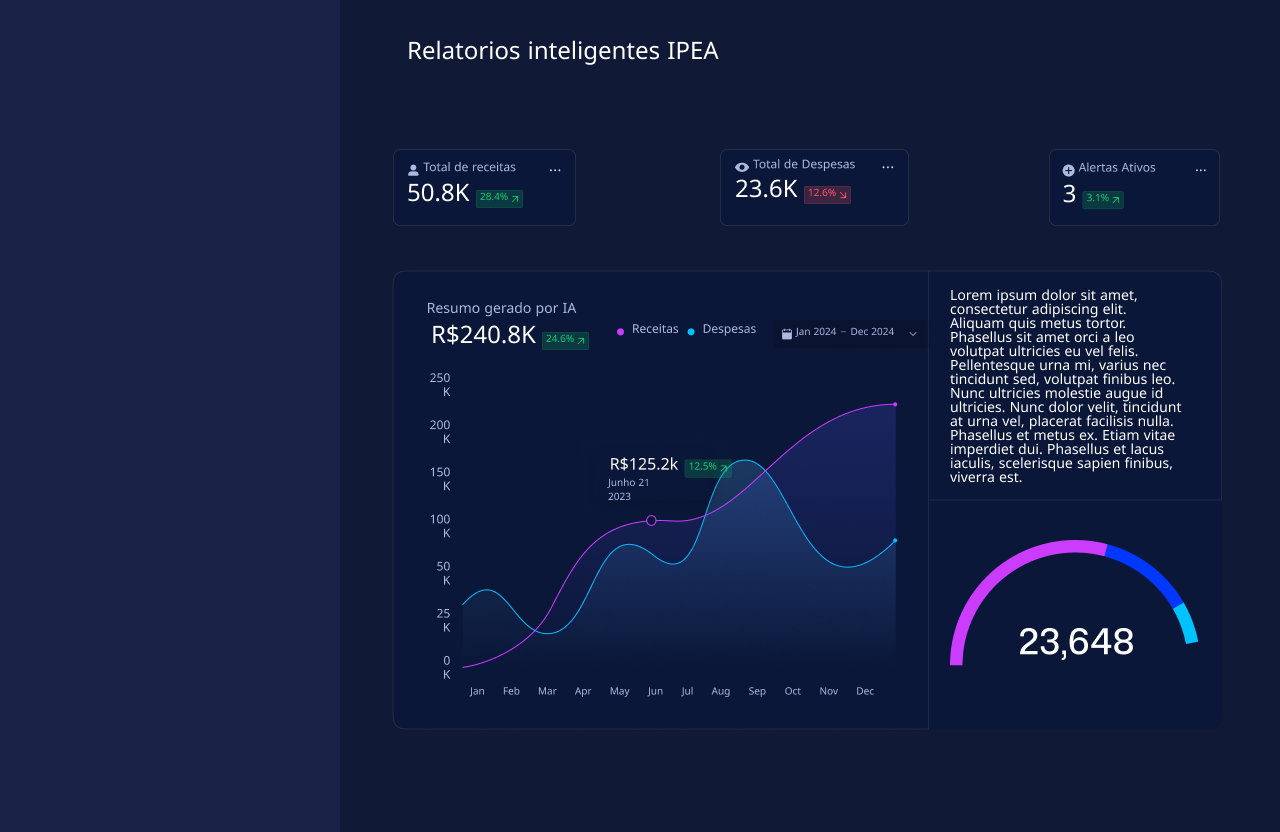
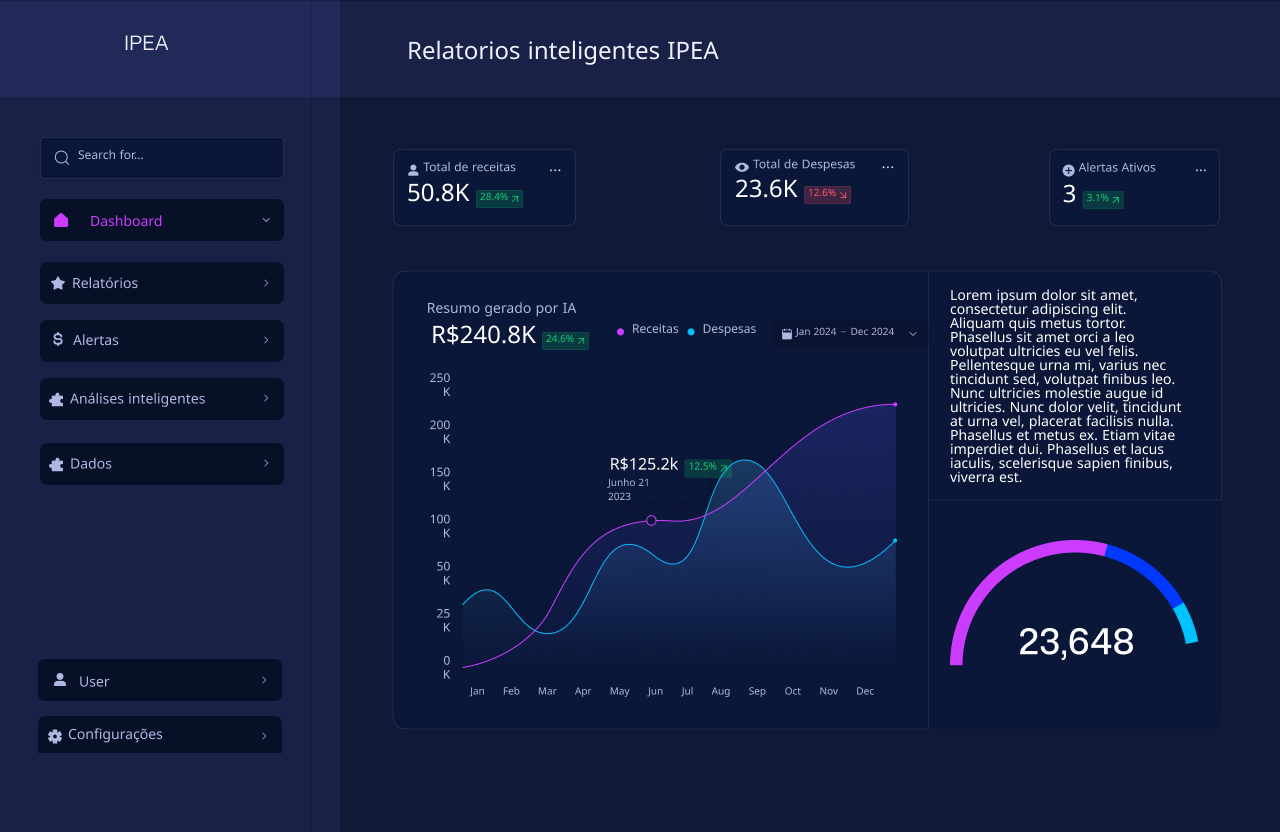
Docs: Criado esboço interface inicial

Changed region(s): [[0.0312, 0.2188, 0.2188, 0.5938], [0.0312, 0.7812, 0.2188, 0.9062], [0.0938, 0.0312, 0.125, 0.0625]]

diff --git a/Documentacao/prototipo/esboço-interface-inicial.md b/Documentacao/prototipo/esboço-interface-inicial.md
@@ -1,0 +1,43 @@
+# 🧠 Relatórios Inteligentes IPEA
+
+Este projeto é uma aplicação web voltada para visualização de relatórios financeiros com apoio de inteligência artificial. A interface foi inspirada em dashboards modernos e traz dados como receitas, despesas, alertas e projeções automatizadas.
+
+## 🎯 Objetivo
+
+Criar uma plataforma intuitiva e inteligente para o acompanhamento de dados financeiros, utilizando gráficos dinâmicos e análises geradas por IA.
+
+## 🖼 Interface Inicial (Esboço)
+
+Abaixo, uma prévia da interface inicial do projeto:
+
+![Interface Inicial](../assets/interface-inicial.png)
+
+> 💡 O layout foi pensado com foco na experiência do usuário e visualização clara dos dados mais relevantes.
+
+## 🔍 Funcionalidades previstas
+
+- Visualização de **receitas e despesas** em tempo real;
+- **Alertas** automáticos gerados por anomalias nos dados;
+- Gráficos comparativos mês a mês;
+- Indicadores de desempenho com feedback visual;
+- Painel lateral com navegação intuitiva por seções:
+  - Dashboard
+  - Relatórios
+  - Alertas
+  - Análises Inteligentes
+  - Dados
+  - Configurações
+
+
+## 🚧 Status do Projeto
+
+> 🧪 **Em desenvolvimento**  
+Interface em fase de prototipagem e layout inicial definido.
+
+## 👩💻 Desenvolvido por
+
+Eduarda Domingos Rodrigues  
+Estudante de Engenharia de Software - Universidade de Brasília
+
+---
+
